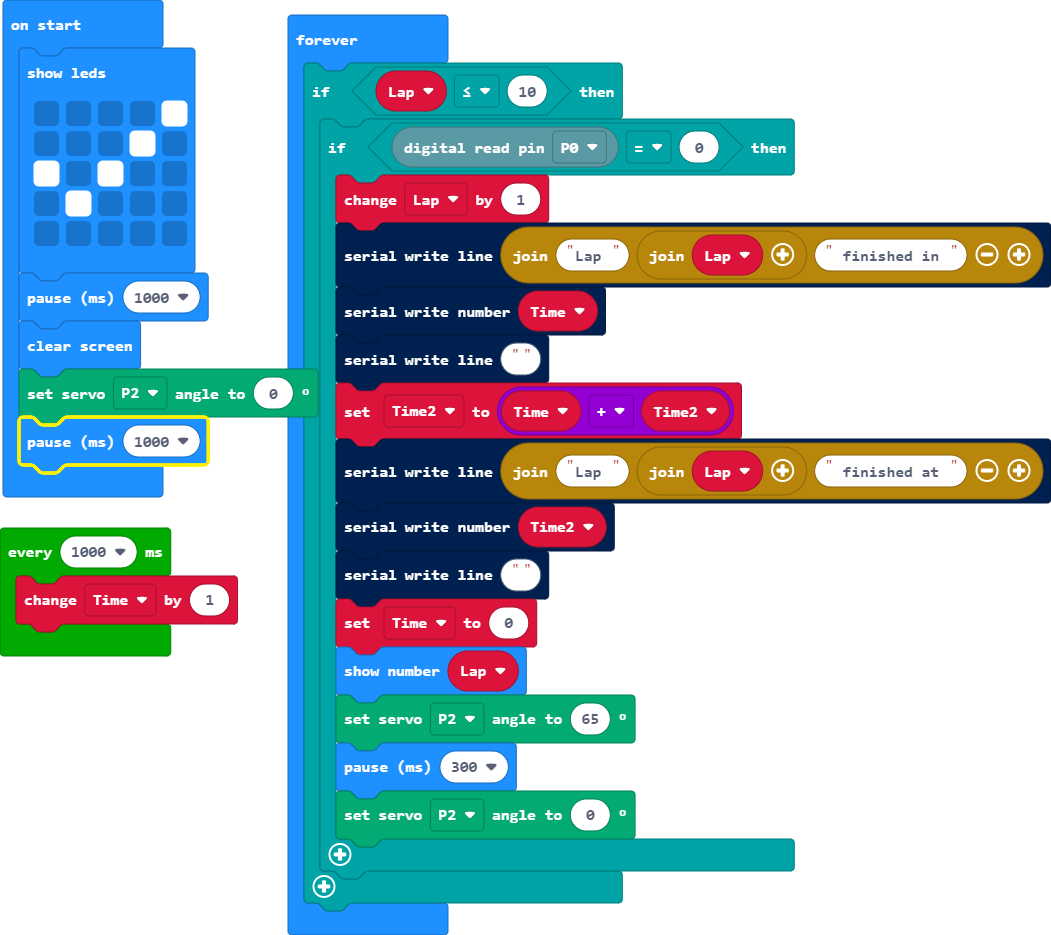
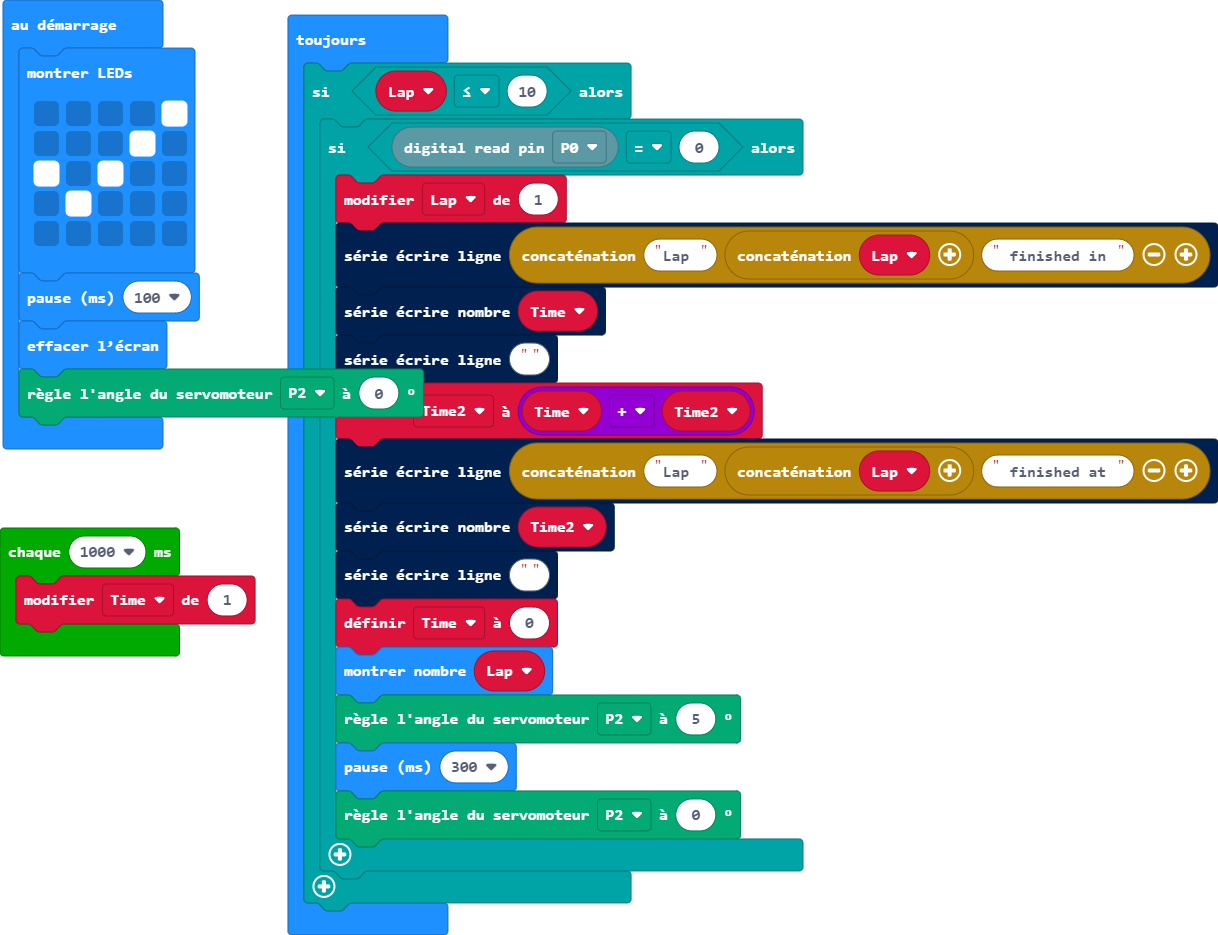
Mise à jour main.blocks, main.ts

diff --git a/main.ts b/main.ts
@@ -8,10 +8,9 @@ basic.showLeds(`
     . # . . .
     . . . . .
     `)
-basic.pause(1000)
+basic.pause(100)
 basic.clearScreen()
 servos.P2.setAngle(0)
-basic.pause(1000)
 loops.everyInterval(1000, function () {
     Time += 1
 })
@@ -28,7 +27,7 @@ basic.forever(function () {
             serial.writeLine("")
             Time = 0
             basic.showNumber(Lap)
-            servos.P2.setAngle(65)
+            servos.P2.setAngle(5)
             basic.pause(300)
             servos.P2.setAngle(0)
         }
